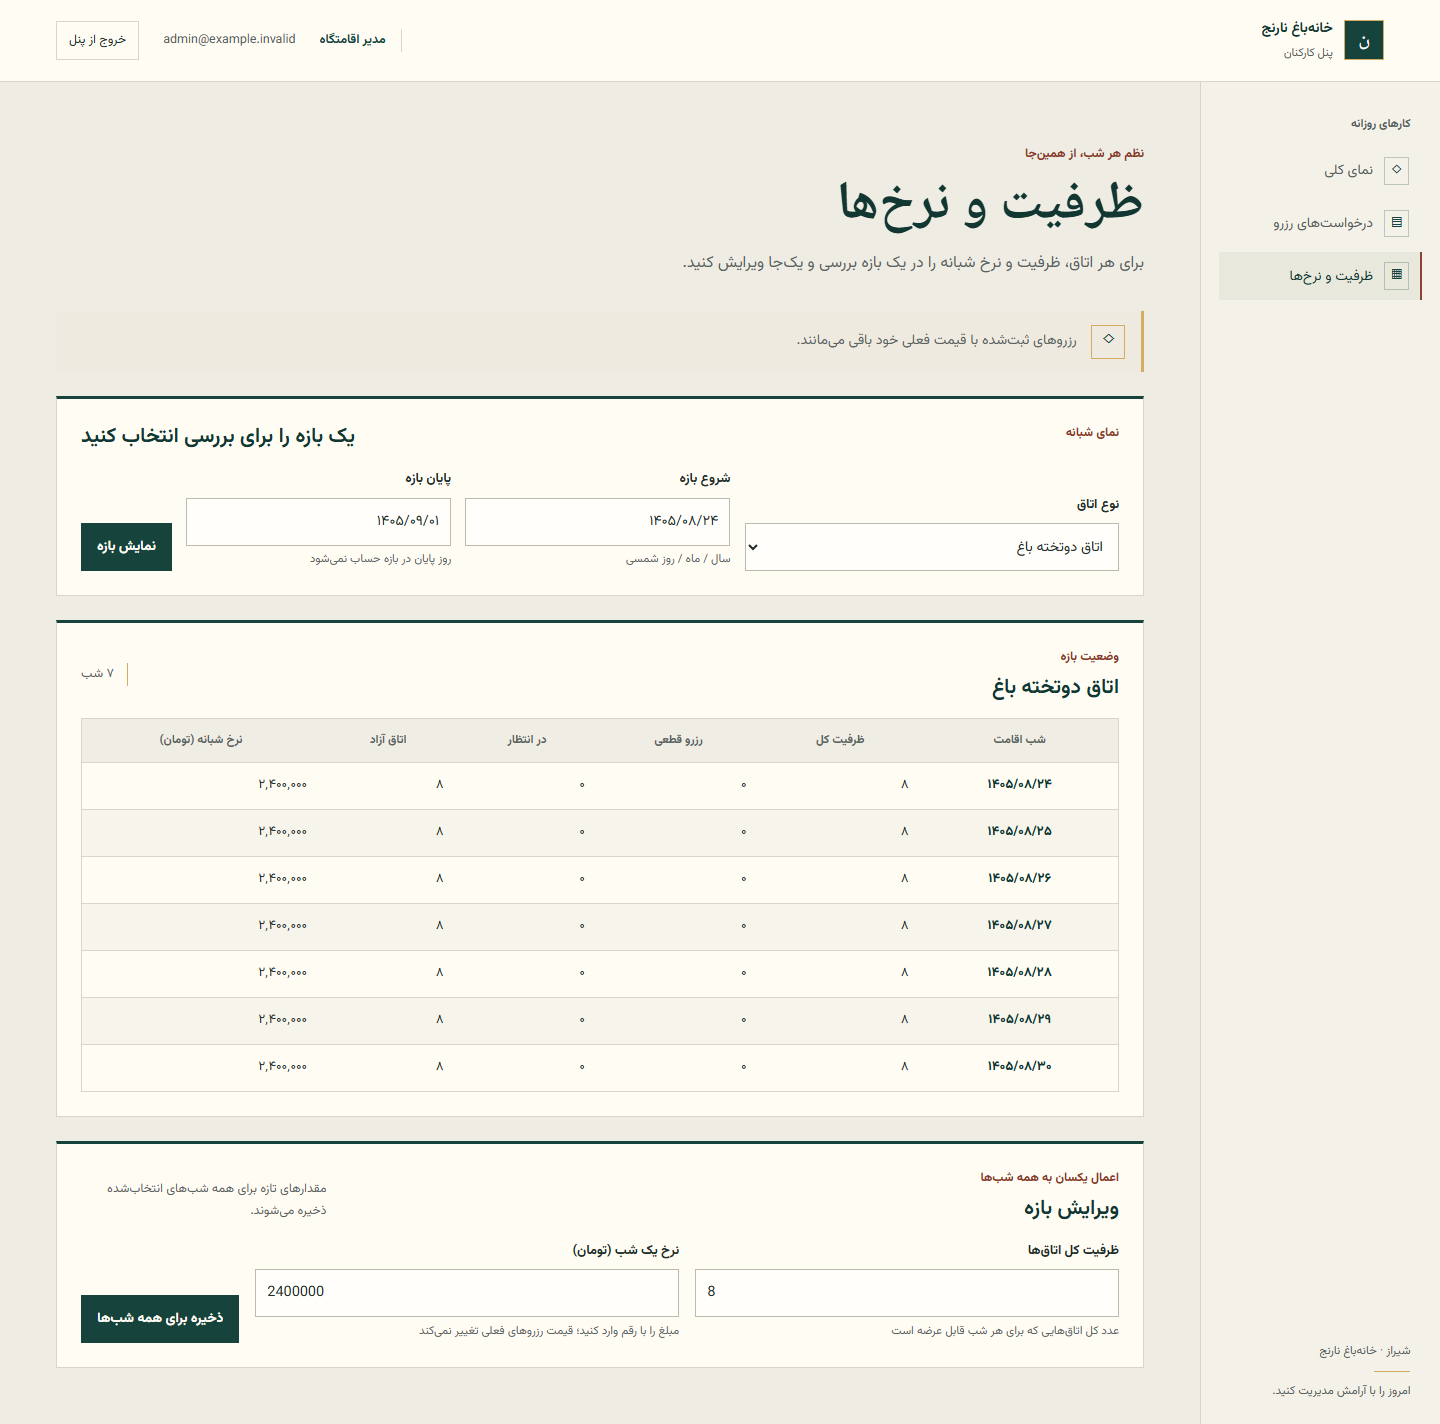
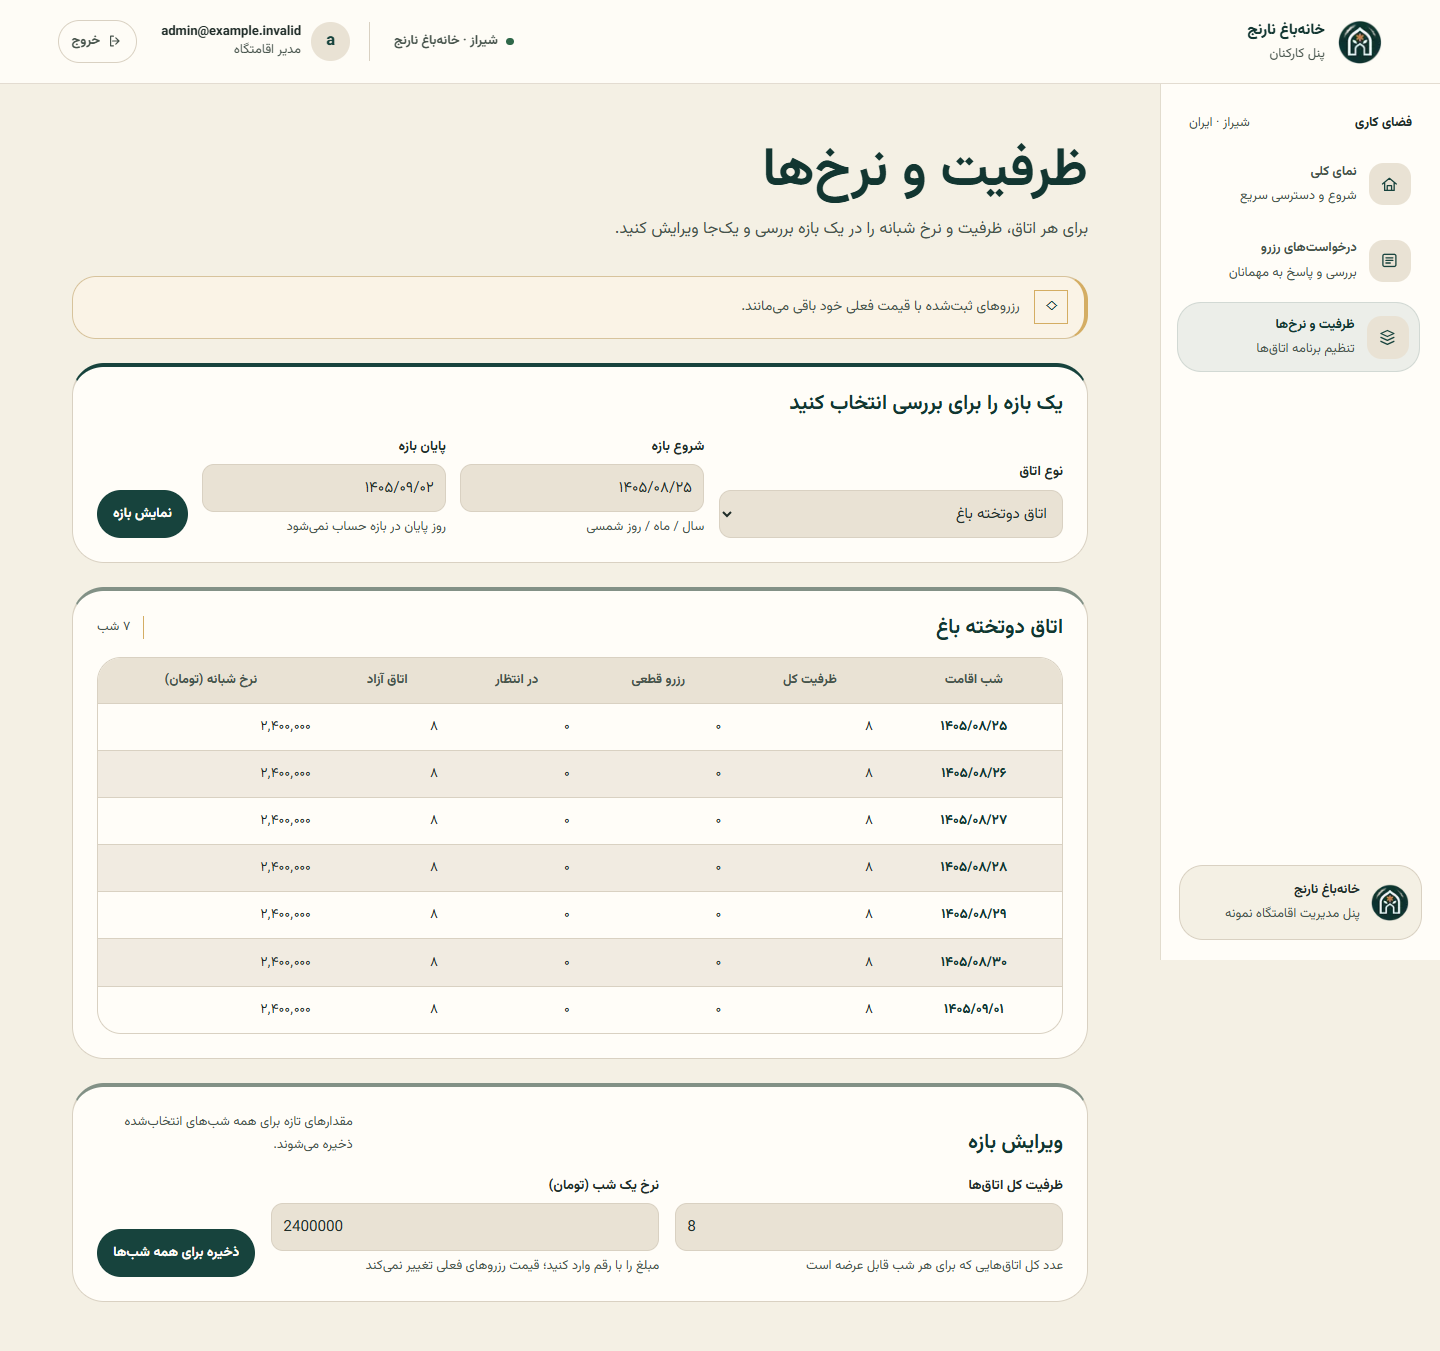
docs: refresh demo screenshots and capture flow

diff --git a/README.md b/README.md
@@ -13,6 +13,15 @@ The product scope and behavior are defined in [prd.md](prd.md); completed and ac
 
 This is a booking-request workflow, not instant booking: staff confirmation is required, and no payment is collected.
 
+## Interface
+
+The Persian RTL interface uses a warm stone palette, deep garden-green accents, one Vazirmatn Variable font family, shared responsive typography and spacing tokens, and clear focus states across guest and staff pages. A generated courtyard-and-orange-blossom emblem is shared by the guest site, staff workspace, footer, favicon, and Apple touch icon.
+
+- **Guests** can explore the property, search by dates and party size, compare available rooms and prices, review a room, and submit a stay request. The request page explains that reception must confirm it and that no payment is taken online.
+- **Staff** use a separate sign-in and operational workspace for the overview, booking requests, and room-night inventory. Receptionists handle requests; administrators can also edit nightly capacity and prices.
+
+The four WebP images and `hotel-mark.png` in `apps/web/public/images/hotel/` are generated conceptual artwork for the fictional Shiraz demo property. The same emblem supplies the browser and Apple icons in `apps/web/src/app/`. Replace the artwork with approved property photography and brand assets before using the site for a real hotel.
+
 ## Architecture
 
 ```mermaid
@@ -118,22 +127,43 @@ The seeded account and demo data are for local testing only. This app is not a p
 
 ## Screenshots
 
-These screenshots show the Persian RTL guest and staff workflows using fictional local seed data.
+These screenshots show the refreshed Persian RTL guest and staff journeys using fictional local seed data and generated conceptual hotel imagery.
 
-![Persian guest homepage and stay search](docs/screenshots/public-home.png)
+### Guest experience
 
-![Persian availability results with room prices](docs/screenshots/public-availability.png)
+![Guest homepage and stay search](docs/screenshots/public-home.png)
 
-![Persian staff inventory editor](docs/screenshots/staff-inventory.png)
+![Availability results and room prices](docs/screenshots/public-availability.png)
 
-To regenerate the screenshots, start the apps, create the local `.env`, install the Playwright Chromium browser once, and run:
+![Guest stay request form and room summary](docs/screenshots/public-booking.png)
+
+Room detail: [garden double](docs/screenshots/public-room-detail.png). Mobile: [homepage](docs/screenshots/public-home-mobile.png), [availability results](docs/screenshots/public-results-mobile.png), and [booking form](docs/screenshots/public-booking-mobile.png).
+
+### Staff workspace
+
+![Staff sign-in](docs/screenshots/staff-login.png)
+
+![Staff booking requests](docs/screenshots/staff-requests.png)
+
+![Staff inventory editor](docs/screenshots/staff-inventory.png)
+
+Mobile inventory: [staff inventory view](docs/screenshots/staff-inventory-mobile.png).
+
+To regenerate the screenshots, start the apps, seed the fictional local staff account, install Playwright Chromium, and run:
 
 ```powershell
 pnpm --filter @hotel/web exec playwright install chromium
 pnpm --filter @hotel/web exec node scripts/capture-demo-screenshots.mjs
 ```
 
-The script reads the development staff credentials from process environment or `.env`, does not print them, captures only the guest catalog/search and staff inventory pages, and revokes its temporary staff session when finished.
+If Playwright's Chromium is unavailable but Chrome is installed, set its executable path before running the script:
+
+```powershell
+$env:DEMO_BROWSER_EXECUTABLE = 'C:\Program Files\Google\Chrome\Application\chrome.exe'
+pnpm --filter @hotel/web exec node scripts/capture-demo-screenshots.mjs
+```
+
+The script reads development staff credentials from process environment or `.env` without printing them. It captures the guest homepage, availability, room detail, booking request, staff sign-in, requests, and inventory pages, along with mobile views for the main guest and inventory flows. It revokes its temporary staff session when finished.
 
 ## Tests and release checks
 
